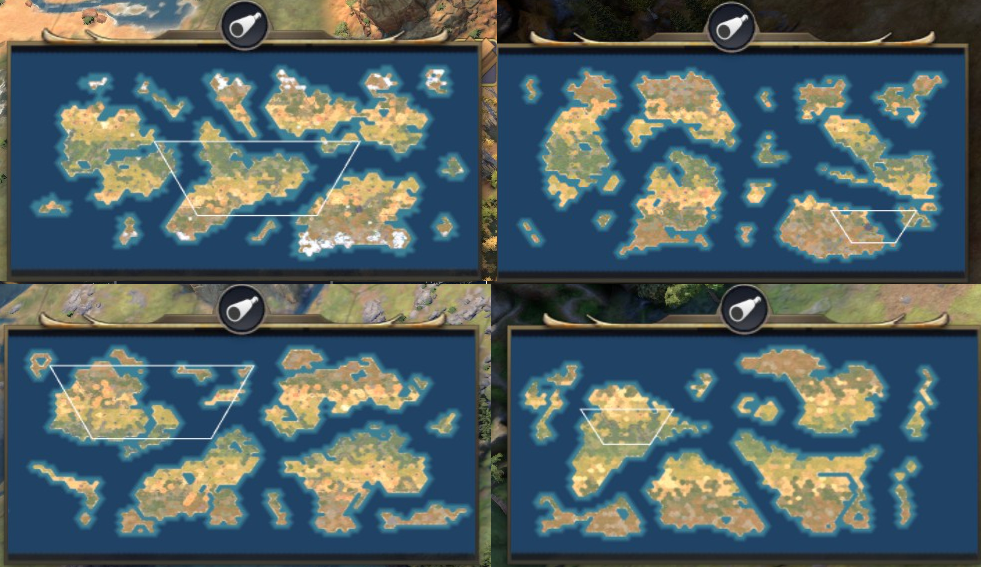
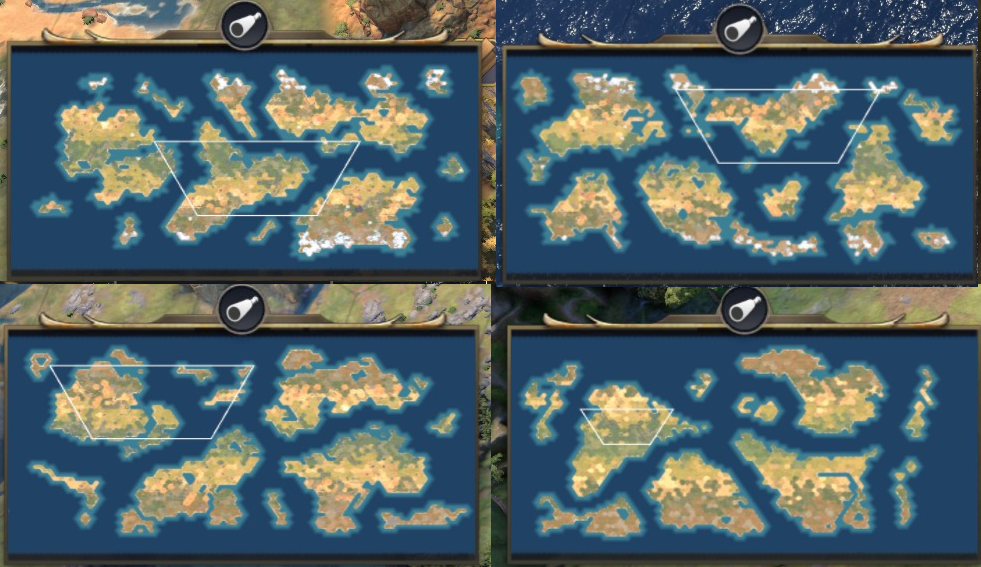
Update image.png with new design

Changed region(s): [[0.4893, 0.0, 1.0, 0.5097]]

diff --git a/modules/maps/continents-plus-plus.js b/modules/maps/continents-plus-plus.js
@@ -23,11 +23,12 @@ console.log("Generating using script Continents++ (Voronoi Edition)");
 // Voronoi plate tectonics system - using UnifiedContinentsBase for dynamic landmass count
 import { UnifiedContinentsBase } from '/base-standard/scripts/voronoi_maps/unified-continents-base.js';
 import { RuleAvoidEdge } from '/base-standard/scripts/voronoi_rules/avoid-edge.js';
+import { RuleAvoidOtherRegions } from '/base-standard/scripts/voronoi_rules/avoid-other-regions.js';
 import { kdTree, TerrainType, WrapType } from '/base-standard/scripts/kd-tree.js';
 import { GeneratorType } from '/base-standard/scripts/voronoi_generators/map-generator.js';
 
-// Starting position assignment
-import { assignStartPositions, chooseStartSectors } from '/ContinentsPlusPlus/modules/maps/assign-starting-plots.js';
+// Starting position assignment - use tile-based approach for Voronoi maps
+import { PlayerRegion, assignStartPositionsFromTiles } from '/base-standard/maps/assign-starting-plots.js';
 
 // Base game terrain generation
 import { addMountains, addHills, buildRainfallMap, generateLakes } from '/base-standard/maps/elevation-terrain-generator.js';
@@ -290,27 +291,6 @@ function generateRandomizedConfig(mapSizeIndex, randomSeed) {
 //──────────────────────────────────────────────────────────────────────────────
 
 /**
- * Calculates hemisphere boundaries for resource and start position assignment
- */
-function calculateHemisphereBounds(iWidth, iHeight) {
-  const midpoint = Math.floor(iWidth / 2);
-  return {
-    west: {
-      west: globals.g_AvoidSeamOffset,
-      east: midpoint,
-      south: globals.g_PolarWaterRows,
-      north: iHeight - globals.g_PolarWaterRows
-    },
-    east: {
-      west: midpoint,
-      east: iWidth - globals.g_AvoidSeamOffset,
-      south: globals.g_PolarWaterRows,
-      north: iHeight - globals.g_PolarWaterRows
-    }
-  };
-}
-
-/**
  * Applies randomized configuration to generator settings
  * Called AFTER init() - modifies individual landmass properties but NOT array length
  * (landmassCount and totalLandmassSize must be set in m_settings BEFORE init())
@@ -398,13 +378,9 @@ async function generateMap() {
   }
 
   // Retrieve base map parameters
-  const iNumPlayers1 = mapInfo.PlayersLandmass1;
-  const iNumPlayers2 = mapInfo.PlayersLandmass2;
   const iTotalPlayers = Players.getAliveMajorIds().length;
   const iNumNaturalWonders = mapInfo.NumNaturalWonders;
   const iTilesPerLake = mapInfo.LakeGenerationFrequency;
-  const iStartSectorRows = mapInfo.StartSectorRows;
-  const iStartSectorCols = mapInfo.StartSectorCols;
   const mapSizeIndex = mapInfo.$index;
 
   console.log(`[ContinentsPP] Map size: ${MAP_SIZE_CONFIGS[mapSizeIndex]?.name || 'UNKNOWN'} (index: ${mapSizeIndex})`);
@@ -498,15 +474,32 @@ async function generateMap() {
   console.log(`[ContinentsPP] Post-init landmass count: ${generatorSettings.landmass.length}`);
   applyRandomizedConfig(generatorSettings, randomConfig);
 
-  // Configure pole distance rule (keep land away from poles)
+  // Configure Voronoi rules for continent generation
   const rules = voronoiMap.getGenerator().getRules();
   for (const value of Object.values(rules)) {
     for (const rule of value) {
+      // Keep land away from poles
       if (rule.name == RuleAvoidEdge.getName()) {
         rule.configValues.poleDistance = globals.g_PolarWaterRows;
       }
+      // Increase minimum ocean distance between continents (default is 4)
+      // minDistance: minimum guaranteed ocean tiles between landmasses
+      // distanceFalloff: soft buffer that discourages growth toward other continents
+      if (rule.name == RuleAvoidOtherRegions.getName()) {
+        rule.configValues.minDistance = 5;        // Minimum 5 ocean tiles between continents
+        rule.configValues.distanceFalloff = 4;    // Soft buffer extends to 9 tiles total
+        console.log(`[ContinentsPP] Set continent separation: minDistance=${rule.configValues.minDistance}, falloff=${rule.configValues.distanceFalloff}`);
+      }
     }
   }
+
+  // Spread continents further apart by increasing spawn distance from center
+  // Default is 0.5-0.75, we use 0.65-0.85 for more ocean between continents
+  for (let i = 0; i < generatorSettings.landmass.length; i++) {
+    const baseDistance = 0.65 + (i * 0.05);  // Stagger distances slightly
+    generatorSettings.landmass[i].spawnCenterDistance = Math.min(0.85, baseDistance);
+  }
+  console.log(`[ContinentsPP] Continent spawn distances: ${generatorSettings.landmass.map((l, i) => l.spawnCenterDistance.toFixed(2)).join(', ')}`);
 
   // Distribute players across continents evenly
   const landmassCount = generatorSettings.landmass.length;
@@ -523,12 +516,6 @@ async function generateMap() {
 
   const playerDistribution = generatorSettings.landmass.map((l, i) => `C${i+1}: ${l.playerAreas}`).join(', ');
   console.log(`[ContinentsPP] Player distribution: ${playerDistribution}`);
-
-  // Calculate players per hemisphere for resource/start position APIs
-  // Split evenly (base game expects west/east hemisphere player counts)
-  const iActualPlayers1 = Math.ceil(iTotalPlayers / 2);
-  const iActualPlayers2 = iTotalPlayers - iActualPlayers1;
-  console.log(`[ContinentsPP] Hemisphere distribution: West=${iActualPlayers1}, East=${iActualPlayers2}`);
 
   console.log("[ContinentsPP] Running Voronoi simulation...");
 
@@ -612,8 +599,6 @@ async function generateMap() {
   // TERRAIN PROCESSING
   //────────────────────────────────────────────────────────────────────────────
 
-  const hemispheres = calculateHemisphereBounds(iWidth, iHeight);
-
   TerrainBuilder.validateAndFixTerrain();
   AreaBuilder.recalculateAreas();
   TerrainBuilder.stampContinents();
@@ -650,31 +635,6 @@ async function generateMap() {
   // START POSITIONS AND RESOURCES
   //────────────────────────────────────────────────────────────────────────────
 
-  console.log("[ContinentsPP] Assigning start positions (fertility-based)...");
-
-  // Read player distribution setting from game options
-  // 0 = Same Hemisphere (default), 1 = Fully Random, 2 = Separate Continents
-  let playerDistributionMode = 0;
-  try {
-    // Read from map configuration (set via map options UI dropdown)
-    const distribValue = Configuration.getMapValue("ContinentsPPPlayerDistribution");
-    if (distribValue !== undefined && distribValue !== null) {
-      playerDistributionMode = parseInt(distribValue);
-      console.log(`[ContinentsPP] Player distribution mode from settings: ${playerDistributionMode}`);
-    } else {
-      console.log("[ContinentsPP] Player distribution setting not found, using default (0 = Same Hemisphere)");
-    }
-  } catch (e) {
-    console.log(`[ContinentsPP] Could not read player distribution setting: ${e.message}`);
-  }
-
-  const distributionModeNames = ["Same Hemisphere", "Fully Random", "Separate Continents"];
-  console.log(`[ContinentsPP] Using distribution mode: ${distributionModeNames[playerDistributionMode] || "Unknown"}`);
-
-  // Empty start sectors array triggers fertility-based assignment
-  const startSectors = [];
-  dumpStartSectors(startSectors);
-
   // Debug output
   dumpContinents(iWidth, iHeight);
   dumpTerrain(iWidth, iHeight);
@@ -689,8 +649,56 @@ async function generateMap() {
   // Resource distribution uses LandmassRegionId set during terrain application
   generateResources(iWidth, iHeight);
 
-  startPositions = assignStartPositions(iActualPlayers1, iActualPlayers2, hemispheres.west, hemispheres.east,
-                                       iStartSectorRows, iStartSectorCols, startSectors, playerDistributionMode);
+  //────────────────────────────────────────────────────────────────────────────
+  // TILE-BASED START POSITION ASSIGNMENT (Voronoi-aware)
+  // This approach works correctly for all ages (Antiquity, Exploration, Modern)
+  // because it uses actual tile locations instead of geographic hemisphere bounds
+  //────────────────────────────────────────────────────────────────────────────
+
+  console.log("[ContinentsPP] Assigning start positions (tile-based for Voronoi maps)...");
+
+  // Create player areas using Voronoi's built-in fertility-based region creation
+  const fertilityGetter = (tile) => StartPositioner.getPlotFertilityForCoord(tile.coord.x, tile.coord.y);
+  voronoiMap.createMajorPlayerAreas(fertilityGetter);
+
+  // Build PlayerRegion objects from Voronoi tiles
+  const playerRegions = Array.from({ length: iTotalPlayers }, () => new PlayerRegion());
+  playerRegions.forEach((region, index) => {
+    region.regionId = index;
+  });
+
+  console.log(`[ContinentsPP] Creating ${iTotalPlayers} player regions from Voronoi tiles...`);
+
+  // Calculate offsets for each landmass (to map majorPlayerRegionId to global region index)
+  let offset = 0;
+  const offsets = [0].concat([
+    ...generatorSettings.landmass.map((n) => {
+      offset += n.playerAreas;
+      return offset;
+    })
+  ]);
+
+  // Assign tiles to player regions based on Voronoi's majorPlayerRegionId
+  for (const row of tiles) {
+    for (const tile of row) {
+      if (tile.majorPlayerRegionId >= 0 && tile.landmassId > 0) {
+        const regionId = tile.majorPlayerRegionId + offsets[tile.landmassId - 1];
+        if (regionId < playerRegions.length) {
+          const playerRegion = playerRegions[regionId];
+          playerRegion.landmassId = tile.landmassId - 1;
+          playerRegion.tiles.push({ x: tile.coord.x, y: tile.coord.y });
+        }
+      }
+    }
+  }
+
+  // Log region info
+  playerRegions.forEach((region, i) => {
+    console.log(`[ContinentsPP] Region ${i}: landmass=${region.landmassId}, tiles=${region.tiles.length}`);
+  });
+
+  // Use tile-based start position assignment (works correctly for all ages)
+  startPositions = assignStartPositionsFromTiles(playerRegions);
 
   console.log("[ContinentsPP] Generating discoveries...");
   generateDiscoveries(iWidth, iHeight, startPositions, globals.g_PolarWaterRows);
@@ -711,7 +719,8 @@ async function generateMap() {
   console.log("═══════════════════════════════════════════════════════════════");
   console.log("  CONTINENTS++ MAP GENERATION COMPLETE");
   console.log(`  Land: ${landPercent}% | Water: ${waterPercent}%`);
-  console.log(`  Players: ${iActualPlayers1} + ${iActualPlayers2} = ${iTotalPlayers}`);
+  console.log(`  Continents: ${landmassCount} | Players: ${iTotalPlayers}`);
+  console.log(`  Distribution: ${playerDistribution}`);
   console.log("═══════════════════════════════════════════════════════════════");
 }
 
